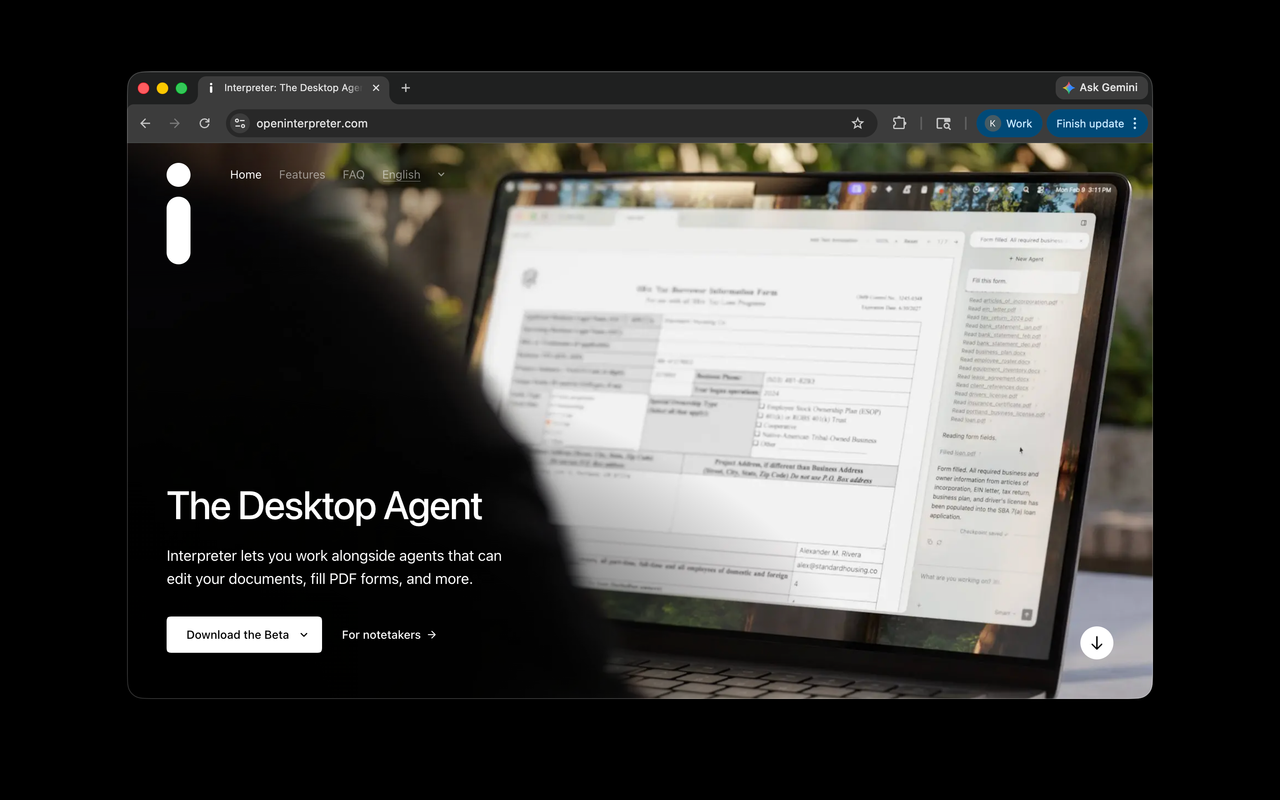
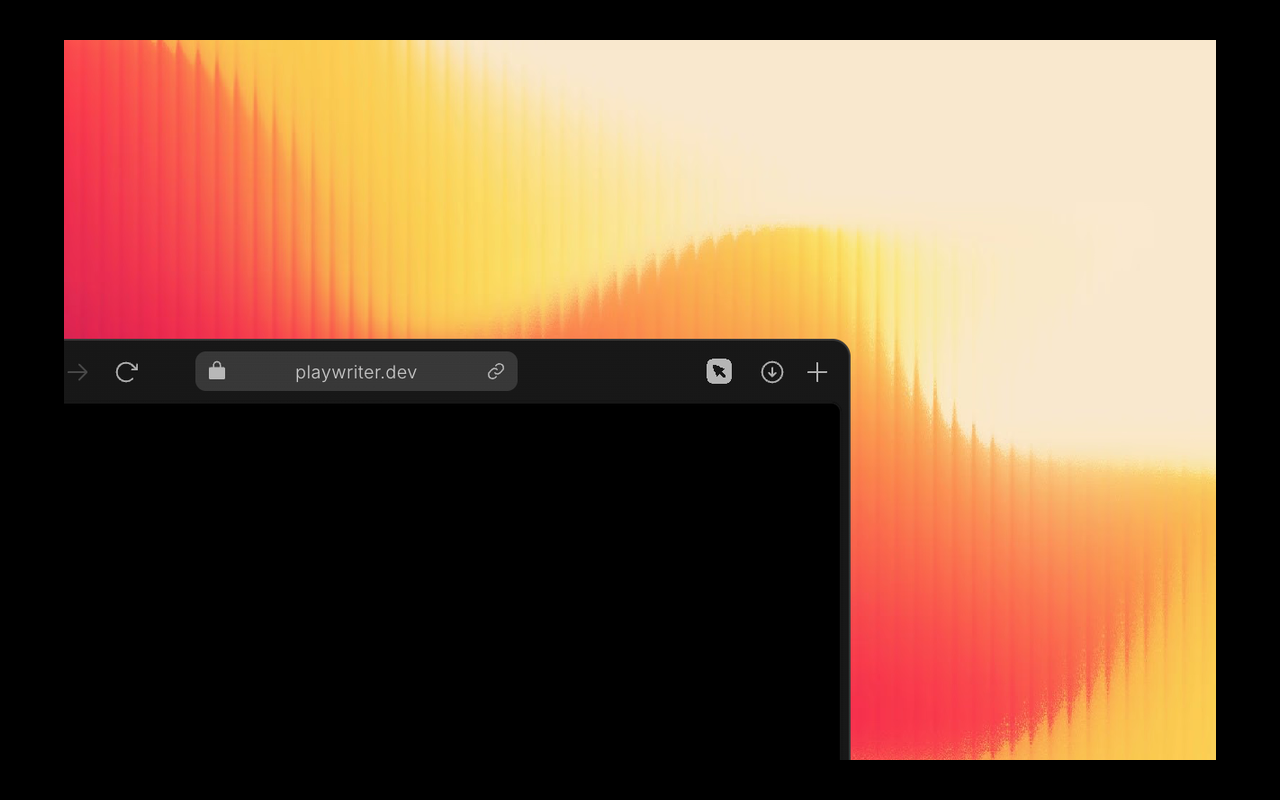
Checkpoint current worktree

diff --git a/extension/src/welcome.html b/extension/src/welcome.html
@@ -31,17 +31,17 @@
         min-height: 100vh;
         display: grid;
         place-items: center;
-        padding: 40px;
+        padding: 48px;
         background: var(--bg);
         color: var(--text);
         font-family: -apple-system, BlinkMacSystemFont, 'Segoe UI', sans-serif;
       }
 
       main {
-        width: min(980px, 100%);
+        width: min(1160px, 100%);
         display: grid;
-        grid-template-columns: minmax(0, 1.05fr) minmax(320px, 420px);
-        gap: min(8vw, 88px);
+        grid-template-columns: minmax(0, 1.3fr) minmax(360px, 520px);
+        gap: min(7vw, 96px);
         align-items: center;
       }
 
@@ -55,23 +55,27 @@
 
       h1 {
         margin: 16px 0 0;
-        max-width: 8ch;
-        font-size: clamp(2.1rem, 5vw, 3.35rem);
-        line-height: 1.04;
+        max-width: 14ch;
+        font-size: clamp(1.55rem, 2.85vw, 2.25rem);
+        line-height: 1.14;
         font-weight: 500;
         letter-spacing: -0.04em;
       }
 
       .lead {
         margin: 18px 0 0;
-        max-width: 30ch;
+        max-width: 39ch;
         color: var(--muted);
-        font-size: 1.05rem;
-        line-height: 1.65;
+        font-size: 1rem;
+        line-height: 1.7;
       }
 
       .steps {
         width: 100%;
+      }
+
+      .intro {
+        max-width: 620px;
       }
 
       ol {
@@ -112,7 +116,7 @@
 
       .note {
         margin: 16px 0 0;
-        max-width: 28ch;
+        max-width: 32ch;
         color: var(--muted);
         font-size: 0.95rem;
         line-height: 1.6;
@@ -145,15 +149,22 @@
           margin-left: auto;
           margin-right: auto;
         }
+
+        .intro {
+          max-width: none;
+        }
       }
     </style>
   </head>
   <body>
     <main>
-      <section>
+      <section class="intro">
         <p class="label">Interpreter Chrome Extension</p>
-        <h1>Click the extension on the tab you want.</h1>
-        <p class="lead">Keep Interpreter open. Each click only affects the tab you are on.</p>
+        <h1>Share the tab you want to use with Interpreter.</h1>
+        <p class="lead">
+          Open the site you want, then click the extension on that tab. Only the tab you click is shared with
+          Interpreter.
+        </p>
       </section>
       <section class="steps" aria-label="Setup">
         <ol>
@@ -167,15 +178,15 @@
           <li>
             <span class="number">2</span>
             <div>
-              <strong>Open the site you want</strong>
-              <p>Go to the page you want Interpreter to use.</p>
+              <strong>Open the site you want to use</strong>
+              <p>Go to the page you want Interpreter to see and use.</p>
             </div>
           </li>
           <li>
             <span class="number">3</span>
             <div>
               <strong>Click the extension on that tab</strong>
-              <p>That turns the current tab on. Click it again to turn that same tab off.</p>
+              <p>That shares the current tab with Interpreter. Click it again to turn that same tab off.</p>
             </div>
           </li>
         </ol>

diff --git a/playwriter/scripts/build-resources.ts b/playwriter/scripts/build-resources.ts
@@ -14,7 +14,7 @@
  * - playwriter/dist/skill.md - full skill docs for local runtime usage
  * - website/public/SKILL.md - full copy for playwriter.dev/SKILL.md
  * - website/public/.well-known/skills/index.json - Agent Skills Discovery endpoint
- * - website/public/.well-known/skills/playwriter/SKILL.md - skill file with frontmatter
+ * - website/public/.well-known/skills/<skill-name>/SKILL.md - skill file with frontmatter
  */
 
 import fs from 'node:fs'
@@ -226,7 +226,7 @@ function parseFrontmatter(content: string): { frontmatter: Record<string, string
  *
  * Creates:
  * - /.well-known/skills/index.json - discovery endpoint
- * - /.well-known/skills/playwriter/SKILL.md - skill file
+ * - /.well-known/skills/<skill-name>/SKILL.md - skill file
  *
  * See: https://agentskills.io/specification
  */
@@ -235,25 +235,30 @@ function buildWellKnownSkills() {
   const skillSourcePath = path.join(repoRoot, 'skills', 'playwriter', 'SKILL.md')
   const websitePublicRoot = path.join(repoRoot, 'website', 'public')
   const wellKnownDir = path.join(websitePublicRoot, '.well-known', 'skills')
-  const playwriterSkillDir = path.join(wellKnownDir, 'playwriter')
+  const legacySkillDir = path.join(wellKnownDir, 'playwriter')
 
   // Read and parse the skill file
   const skillContent = fs.readFileSync(skillSourcePath, 'utf-8')
   const { frontmatter } = parseFrontmatter(skillContent)
+  const skillName = frontmatter.name || 'interpreter-browser'
+  const skillDir = path.join(wellKnownDir, skillName)
 
   // Ensure directories exist
   ensureDir(wellKnownDir)
-  ensureDir(playwriterSkillDir)
+  ensureDir(skillDir)
+  if (skillName !== 'playwriter' && fs.existsSync(legacySkillDir)) {
+    fs.rmSync(legacySkillDir, { recursive: true, force: true })
+  }
 
   // Copy SKILL.md to well-known location
-  fs.writeFileSync(path.join(playwriterSkillDir, 'SKILL.md'), skillContent, 'utf-8')
-  console.log('Generated website/public/.well-known/skills/playwriter/SKILL.md')
+  fs.writeFileSync(path.join(skillDir, 'SKILL.md'), skillContent, 'utf-8')
+  console.log(`Generated website/public/.well-known/skills/${skillName}/SKILL.md`)
 
   // Generate index.json
   const indexJson = {
     skills: [
       {
-        name: frontmatter.name || 'playwriter',
+        name: skillName,
         description: frontmatter.description || '',
         files: ['SKILL.md'],
       },

diff --git a/playwriter/src/skill.md b/playwriter/src/skill.md
@@ -1,6 +1,6 @@
 ## CLI Usage
 
-If `playwriter` command is not found, install globally or use npx/bunx:
+If the browser-control CLI (`playwriter`) is not available, install it globally or use npx/bunx:
 
 ```bash
 npm install -g playwriter@latest
@@ -9,7 +9,7 @@ npx playwriter@latest session new
 bunx playwriter@latest session new
 ```
 
-If using npx or bunx always use @latest for the first session command. so we are sure of using the latest version of the package
+If using npx or bunx, always use `@latest` for the first session command so you pick up the latest browser-control package.
 
 ### Session management
 
@@ -46,7 +46,7 @@ playwriter session reset <sessionId>
 
 ### Direct CDP connection (--direct)
 
-Only use `--direct` when the user explicitly asks for it. This mode requires the user to accept a debugging approval dialog in Chrome, so it cannot be used autonomously.
+Only use `--direct` when the user explicitly asks for a no-extension flow. This mode requires the user to accept a debugging approval dialog in Chrome, so it cannot be used autonomously.
 
 `--direct` connects to Chrome's DevTools Protocol without the extension. Unlike extension mode, it gives access to **all existing pages** in the browser — no need to enable per tab. Works with any Chromium browser (Chrome, Brave, Arc, Edge, etc.).
 
@@ -129,28 +129,31 @@ console.log({ title, url });
 
 ### Debugging browser-control issues
 
-If some internal critical error happens you can read the relay server logs to understand the issue. The log file is located in the user home directory:
+If some internal critical error happens, print the current relay log paths first:
 
 ```bash
-playwriter logfile  # prints the log file path
-# typically: ~/.playwriter/relay-server.log
+playwriter logfile
 ```
 
-The relay log contains logs from the extension, MCP and WS server. A separate CDP JSONL log is created alongside it (see `playwriter logfile`) with all CDP commands/responses and events, with long strings truncated. Both files are recreated every time the server starts. For debugging internal browser-control errors, read these files with grep/rg to find relevant lines.
+The relay log contains logs from the extension, MCP, and WS server. A separate CDP JSONL log is created alongside it and includes CDP commands, responses, and events with long strings truncated. Both files are recreated every time the server starts. For debugging internal browser-control errors, read the exact paths printed by `playwriter logfile`.
 
-Example: summarize CDP traffic counts by direction + method:
-
-```bash
-jq -r '.direction + "\t" + (.message.method // "response")' ~/.playwriter/cdp.jsonl | uniq -c
-```
-
-If you find a bug, you can create a gh issue using `gh issue create -R remorses/playwriter --title title --body body`. Ask for user confirmation before doing this.
+If you find a bug, capture the failing command, the relevant relay log lines, and the relevant CDP log lines before escalating it.
 
 ---
 
 # Browser-control best practices
 
-Control the user's Chrome browser via Playwright code snippets. Prefer single-line code with semicolons between statements. Use the CLI/browser-control workflow immediately without waiting for user actions; only if you get "extension is not connected" or "no browser tabs have Interpreter Chrome Extension enabled" should you ask the user to click the Interpreter Chrome Extension icon on the target tab.
+Control the user's existing Chrome browser via Playwright code snippets. Prefer single-line code with semicolons between statements.
+
+**If the user does not have the Interpreter Chrome Extension installed:** ask them to install it from the Chrome Web Store first:
+
+```text
+https://chromewebstore.google.com/detail/interpreter-chrome-extens/bboaaphdpllilofamfpommlbafpellnb
+```
+
+After install, tell them to open the site they want to use and click the Interpreter Chrome Extension on that tab. The click only turns on the current tab.
+
+**If the extension is installed but not enabled on the right tab:** when you get "extension is not connected" or "no browser tabs have Interpreter Chrome Extension enabled", ask the user to click the Interpreter Chrome Extension icon on the specific tab they want to share.
 
 **When to use browser control instead of webfetch/curl:** If a website is JS-heavy (SPAs like Instagram, Twitter, Facebook, etc.), has cookie consent modals, login walls, lazy-loaded content, carousels, or infinite scroll — **always use browser control**. Simple fetch/webfetch will return an empty HTML shell with no content. Do NOT waste time trying curl, webfetch, or parsing raw HTML from JS-rendered sites. Go straight to the CLI/browser-control workflow: navigate with a real browser, dismiss modals, then extract what you need via `page.evaluate()` or network interception.
 
@@ -169,6 +172,8 @@ start chrome.exe --profile-directory=Default
 # Windows (PowerShell)
 Start-Process chrome.exe -ArgumentList '--profile-directory=Default'
 ```
+
+**If the user cannot install the extension and explicitly asks for a no-extension path:** use `--direct`. Do not switch to `--direct` on your own.
 
 You can collaborate with the user - they can help with captchas, difficult elements, or reproducing bugs.
 

diff --git a/playwriter/CHANGELOG.md b/playwriter/CHANGELOG.md
@@ -1,5 +1,10 @@
 # Changelog
 
+## 0.0.105
+
+1. **Browser skill now explains the missing-extension flow** — the bundled browser-control instructions now tell agents to send users to the Interpreter Chrome Web Store listing when the extension is not installed, then instruct them to click the extension on the target tab.
+2. **Remove stale Playwriter branding from bundled skill copy** — the discovery stub now exposes the skill as `interpreter-browser`, the generated well-known skill uses that name, and the prose no longer describes the product as “Playwriter” outside literal command examples.
+
 ## 0.0.104
 
 1. **Production extension allowlists now use the Interpreter Chrome Web Store ID** - the relay-side extension ID list and security coverage now target the live Interpreter listing (`bboaaphdpllilofamfpommlbafpellnb`) instead of the old Playwriter production ID.

diff --git a/extension/CHANGELOG.md b/extension/CHANGELOG.md
@@ -1,5 +1,17 @@
 # Changelog
 
+## 0.0.88
+
+### Changes
+
+- **Clarify the welcome-page action and widen the left column**: Made the headline smaller, gave the left side more width, and rewrote the main copy so it explicitly says the click shares the selected tab with Interpreter.
+
+## 0.0.87
+
+### Changes
+
+- **Reduce the welcome-page headline size**: Lowered the hero typography in `welcome.html` so the page reads less like a poster and more like a utility screen.
+
 ## 0.0.86
 
 ### Changes

diff --git a/store-assets/README.md b/store-assets/README.md
@@ -2,7 +2,7 @@
 
 - `chrome-store-screenshot-1280x800.png` is the primary screenshot for the store listing.
 - `chrome-store-screenshot-640x400.png` is a smaller alternative export.
-- `source-browser-screenshot.png` is the real browser screenshot source used to generate the black-backed exports.
+- Source image: `../playwriter/screenshot@2x.png`.
 
 Generated with:
 
